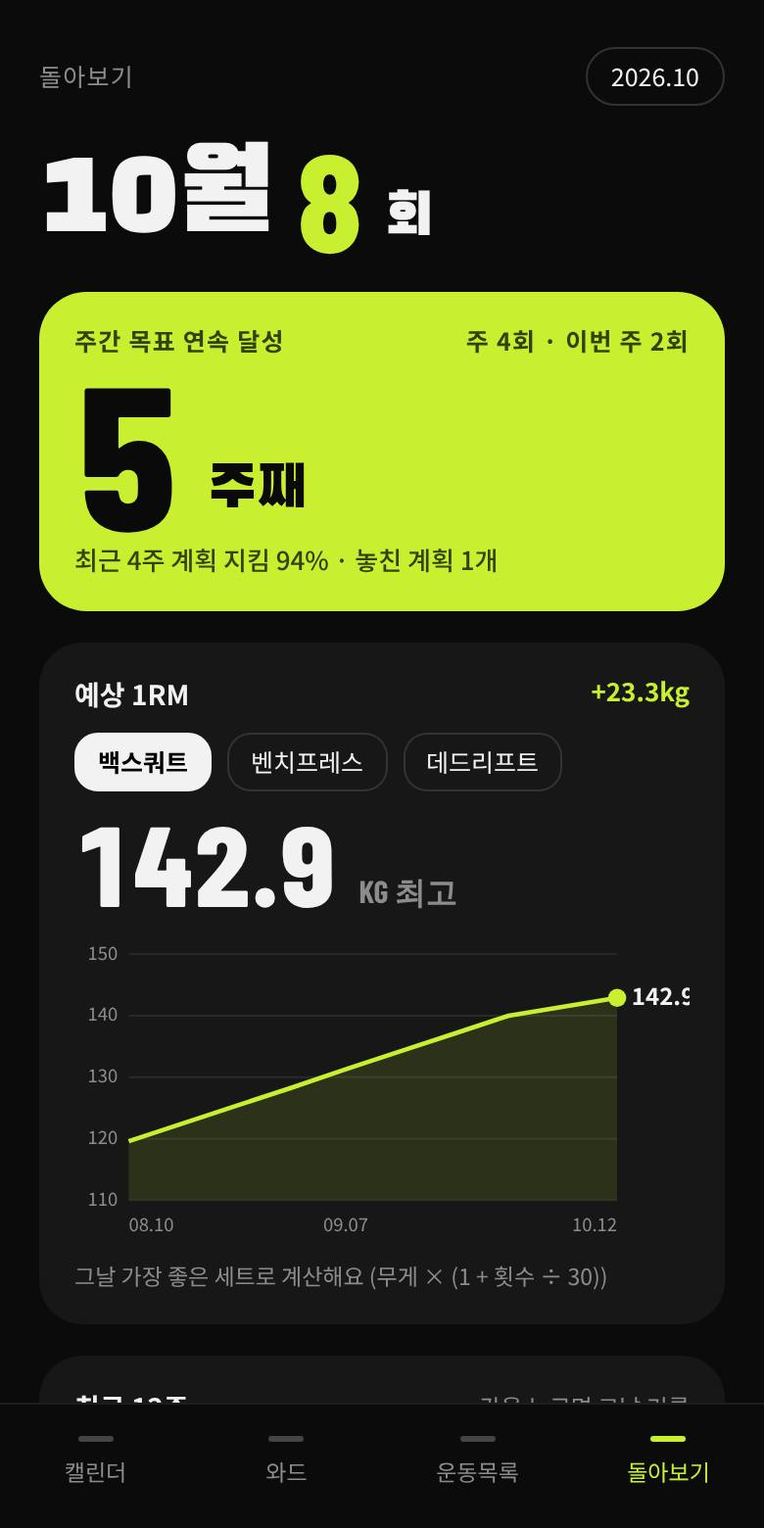
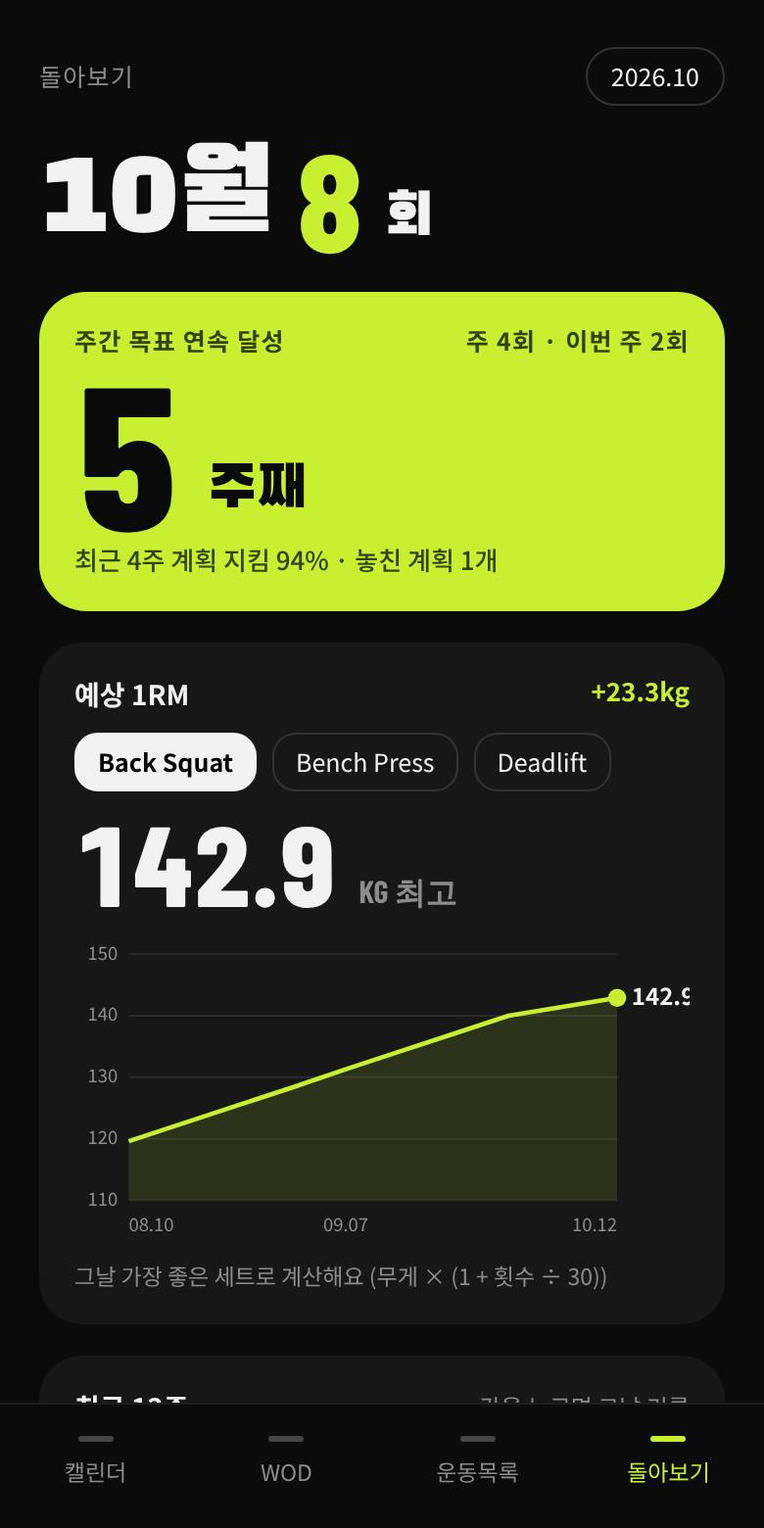
Write WOD and Daily WOD in English, English exercise names with Korean search, editable built-in named WODs, my WODs first, list every counted exercise
Claude-Session: https://claude.ai/code/session_019eoxjeUYsC1xCLQy9vy9QX

Changed region(s): [[0.1231, 0.4615, 0.7692, 0.5231], [0.3385, 0.9538, 0.4, 0.9846]]

diff --git a/index.html b/index.html
@@ -227,7 +227,7 @@ textarea.inp{resize:vertical;min-height:70px;line-height:1.6}
   <main class="screen" id="screen"></main>
   <nav class="tabs" id="tabs" aria-label="메뉴">
     <button class="tab" data-tab="cal"><i></i>캘린더</button>
-    <button class="tab" data-tab="wod"><i></i>와드</button>
+    <button class="tab" data-tab="wod"><i></i>WOD</button>
     <button class="tab" data-tab="lib"><i></i>운동목록</button>
     <button class="tab" data-tab="stats"><i></i>돌아보기</button>
   </nav>
@@ -270,7 +270,7 @@ const DEF_CATS = [
   {k:'body', label:'맨몸·홈트', color:'#FFD84D'},
   {k:'cardio', label:'유산소', color:'#7CC4FF'},
   {k:'swim', label:'수영', color:'#F2F2F2'},
-  {k:'wod', label:'와드', color:'#FF9F43'},
+  {k:'wod', label:'WOD', color:'#FF9F43'},
   {k:'etc', label:'기타', color:'#777777'}
 ];
 const CAT_COLORS = ['#C8F031','#FFD84D','#7CC4FF','#F2F2F2','#FF9F43','#FF6B6B','#B794F6','#5EEAD4','#F472B6','#777777'];
@@ -320,6 +320,11 @@ const qTxt = q => /^\d+$/.test(String(q || '')) ? `${q}회` : String(q || '');
 
 const OLD_RES = {fortime:'time', amrap:'rr', emom:'done', deathby:'rr', igyg:'time', tabata:'reps', custom:'text'};
 const resFromOld = (r = {}) => ({v:String(r.time || (r.rounds ? `${r.rounds}${r.reps ? '+' + r.reps : ''}` : r.reps || r.text || '')), status:r.status || '', short:r.short || ''});
+/* built-in exercises are named in English; the Korean name is kept (ko) so Korean typing still finds them */
+const EX_EN = {"백스쿼트": "Back Squat", "벤치프레스": "Bench Press", "데드리프트": "Deadlift", "오버헤드프레스": "Overhead Press", "바벨로우": "Barbell Row", "스러스터": "Thruster", "클린앤저크": "Clean & Jerk", "스내치": "Snatch", "파워클린": "Power Clean", "행 파워클린": "Hang Power Clean", "푸시저크": "Push Jerk", "클린": "Clean", "파워스내치": "Power Snatch", "스쿼트 스내치": "Squat Snatch", "오버헤드 스쿼트": "Overhead Squat", "케틀벨 스윙": "Kettlebell Swing", "풀업": "Pull-up", "푸시업": "Push-up", "에어스쿼트": "Air Squat", "싯업": "Sit-up", "버피": "Burpee", "더블언더": "Double Under", "핸드스탠드 푸시업": "Handstand Push-up", "토투바": "Toes-to-Bar", "머슬업": "Muscle-up", "박스점프": "Box Jump", "월볼": "Wall Ball", "플랭크": "Plank", "링 딥스": "Ring Dip", "피스톨 스쿼트": "Pistol Squat", "백 익스텐션": "Back Extension", "러닝": "Run", "로잉머신": "Row", "사이클": "Bike", "스키에르그": "SkiErg", "자유형": "Freestyle", "평영": "Breaststroke"};
+const enName = n => { n = String(n || ''); for (const k of Object.keys(EX_EN).sort((a, b) => b.length - a.length)) if (n === k || n.startsWith(k + ' ')) return EX_EN[k] + n.slice(k.length); return n; };
+const exMatch = (e, q) => norm(e.name).includes(q) || (e.ko && norm(e.ko).includes(q));
+const exIs = (e, n) => norm(e.name) === norm(n) || (e.ko && norm(e.ko) === norm(n));
 /* ---------- seed data (examples) ---------- */
 function seedExercises() {
   const W = ['w','r'], B = ['r'], C = ['d','t'];
@@ -329,7 +334,7 @@ function seedExercises() {
     ['pu','풀업','body',B],['push','푸시업','body',B],['air','에어스쿼트','body',B],['situp','싯업','body',B],['burpee','버피','body',B],['du','더블언더','body',B],['hspu','핸드스탠드 푸시업','body',B],['t2b','토투바','body',B],['mu','머슬업','body',B],['box','박스점프','body',B],['wb','월볼','weight',W],['plank','플랭크','body',['t']],['dip','링 딥스','body',B],['pistol','피스톨 스쿼트','body',B],['backext','백 익스텐션','body',B],
     ['run','러닝','cardio',C,'km'],['rowerg','로잉머신','cardio',C,'m'],['bike','사이클','cardio',C,'km'],['ski','스키에르그','cardio',C,'m'],
     ['free','자유형','swim',C,'m'],['breast','평영','swim',C,'m']
-  ].map(([id,name,cat,fields,unit]) => ({id, name, cat, fields:[...fields], unit:unit || 'km'}));
+  ].map(([id,name,cat,fields,unit]) => ({id, name:EX_EN[name] || name, ko:name, cat, fields:[...fields], unit:unit || 'km'}));
 }
 const NAMED_OLD = [
   {id:'fran', name:'Fran', format:'fortime', scheme:'21-15-9', moves:[['21-15-9','스러스터 43/29kg'],['21-15-9','풀업']]},
@@ -357,13 +362,15 @@ const NAMED_OLD = [
   {id:'michael', name:'Michael', format:'fortime', rounds:3, moves:[['800m','러닝'],['50회','백 익스텐션'],['50회','싯업']]},
   {id:'randy', name:'Randy', format:'fortime', moves:[['75회','파워스내치 34/25kg']]},
   {id:'nate', name:'Nate', format:'amrap', cap:20, moves:[['2회','머슬업'],['4회','핸드스탠드 푸시업'],['8회','케틀벨 스윙 32/24kg']]}
-].map(w => ({...w, named:true, moves:w.moves.map(([a,n]) => ({a, n}))}));
+].map(w => ({...w, named:true, moves:w.moves.map(([a,n]) => ({a, n:enName(n)}))}));
 const NAMED = NAMED_OLD.map(w => tplFromOld(w));
 /* built-in named WODs plus the ones the user adds (state.named, editable) */
-const allNamed = () => [...NAMED, ...state.named];
+const ownNamed = () => state.named.filter(x => !NAMED.some(w => w.id === x.id));
+/* an edited built-in is kept in state.named under the same id and replaces the original */
+const allNamed = () => [...NAMED.map(w => state.named.find(x => x.id === w.id) || w), ...ownNamed()];
 const seedMine = () => [
-  {id:'m1', name:'월요일 파트너 와드', format:'igyg', cap:24, rounds:10, moves:[{a:'10회',n:'버피'},{a:'15cal',n:'로잉머신'}], note:'박스 수업에서 받은 와드'},
-  {id:'m2', name:'버피 Death By', format:'deathby', moves:[{a:'매 분 +1',n:'버피'}]}
+  {id:'m1', name:'월요일 파트너 WOD', format:'igyg', cap:24, rounds:10, moves:[{a:'10회',n:'Burpee'},{a:'15cal',n:'Row'}], note:'박스 수업에서 받은 WOD'},
+  {id:'m2', name:'Burpee Death By', format:'deathby', moves:[{a:'매 분 +1',n:'Burpee'}]}
 ];
 function seedSessions() {
   const out = [], today = new Date(); today.setHours(0,0,0,0);
@@ -380,7 +387,7 @@ function seedSessions() {
       s = {title:'등 + 후면', duration:60, items:[ex('dl', [{w:dl,r:5},{w:dl,r:5},{w:dl,r:3}], ['w','r']), ex('pu', [12,11,10,9].map(r => ({r:r + Math.round(2*p) - 2})), ['r'])], planId:'p3'}; }
     else if (wd === 6) { const w = NAMED_OLD[[0,2,4][turn++ % 3]];
       const res = w.id === 'fran' ? {time:secToMs(460 - 108*p)} : w.id === 'cindy' ? {rounds:String(15 + Math.round(4*p)), reps:String(Math.round(8*p))} : {time:secToMs(790 - 70*p)};
-      s = {title:`와드 · ${w.name}`, duration:40, items:[{type:'wod', id:uid(), wodId:w.id, name:w.name, format:w.format, scheme:w.scheme || '', moves:w.moves.map(m => ({...m})), scale:'Rx', res}], planId:'p4'}; }
+      s = {title:`WOD · ${w.name}`, duration:40, items:[{type:'wod', id:uid(), wodId:w.id, name:w.name, format:w.format, scheme:w.scheme || '', moves:w.moves.map(m => ({...m})), scale:'Rx', res}], planId:'p4'}; }
     else if (wd === 0 && back % 14 < 7) s = {title:'수영', duration:45, items:[ex('free', [{d:1500, t:secToMs(2050 - 120*p)}], ['d','t'])]};
     if (s) out.push({id:uid(), date:ymd(d), mood:['💪','🙂','🙂','😐','💪','🥵'][out.length % 6], memo:'', place:'', ...s});
   }
@@ -395,7 +402,7 @@ function seedPlans() {
     {id:'p1', title:'하체 + 가슴', cat:'weight', repeat:'weekly', days:[1], start, end:'', exIds:['sq','bp'], wodId:'', notify:true, skip:[]},
     {id:'p2', title:'5km 러닝', cat:'cardio', repeat:'weekly', days:[2], start, end:'', exIds:['run'], wodId:'', notify:false, skip:[]},
     {id:'p3', title:'등 + 후면', cat:'weight', repeat:'weekly', days:[5], start, end:'', exIds:['dl','pu'], wodId:'', notify:true, skip:[]},
-    {id:'p4', title:'토요일 와드', cat:'wod', repeat:'weekly', days:[6], start, end:'', exIds:[], wodId:'', notify:false, skip:[]},
+    {id:'p4', title:'토요일 WOD', cat:'wod', repeat:'weekly', days:[6], start, end:'', exIds:[], wodId:'', notify:false, skip:[]},
     {id:'p5', title:'Murph 도전', cat:'wod', repeat:'none', days:[], start:sat, end:'', exIds:[], wodId:'murph', notify:true, skip:[], note:'조끼 없이 Scaled로 먼저'}
   ].map(p => ({...p, created:t}));
 }
@@ -417,7 +424,7 @@ function partFromOld(o) {
     return {n, exId:m.exId || null, q:schemeOf(pat) && a === pat.v ? '' : a.replace(/회$/, ''), w}; })};
 }
 function tplFromOld(w) { return {id:w.id, name:w.name, note:w.note || '', named:!!w.named, parts:[partFromOld(w)]}; }
-function wodFromOld(it) { return {type:'wod', id:it.id || uid(), wodId:it.savedId || it.wodId || null, name:it.name || '오늘의 와드', parts:[partFromOld(it)], scale:it.scale || 'Rx', res:resFromOld(it.res), partner:it.res?.partner || ''}; }
+function wodFromOld(it) { return {type:'wod', id:it.id || uid(), wodId:it.savedId || it.wodId || null, name:it.name || 'Daily WOD', parts:[partFromOld(it)], scale:it.scale || 'Rx', res:resFromOld(it.res), partner:it.res?.partner || ''}; }
 function migrate(st) {
   st.cats ||= DEF_CATS.map(c => ({...c}));
   st.formats ||= DEF_FORMATS.map(f => ({...f}));
@@ -427,9 +434,19 @@ function migrate(st) {
   [...(st.mine || []), ...(st.named || [])].forEach(w => w.parts?.forEach(toPats));
   st.mine = (st.mine || []).map(w => w.parts ? w : tplFromOld(w));
   st.named ||= [];
+  /* an exercise whose category is gone (or WOD) would be counted but never listed; file it under 기타 */
+  st.exercises.forEach(e => { if (e.cat === 'wod' || !st.cats.some(c => c.k === e.cat)) e.cat = 'etc'; });
+  /* 2026-10-16: "와드" is written WOD, "오늘의 와드" is Daily WOD */
+  st.cats.forEach(c => { if (c.k === 'wod' && c.label === '와드') c.label = 'WOD'; });
+  for (const s of st.sessions) { if (s.title) s.title = s.title.replace(/^와드 · /, 'WOD · '); for (const it of s.items) if (it.type === 'wod' && (it.name === '오늘의 와드' || it.name === 'Workout of the Day')) it.name = 'Daily WOD'; }
   for (const s of st.sessions) s.items = s.items.map(it => it.type === 'wod' && !it.parts ? wodFromOld(it) : it);
-  for (const e of seedExercises()) if (['pc','hpc','pj','clean','psn','sqsn','ohs','dip','pistol','backext'].includes(e.id) && !st.exercises.some(x => x.id === e.id || x.name === e.name)) st.exercises.push(e);
-  const byName = n => st.exercises.find(e => norm(e.name) === norm(n));
+  for (const e of seedExercises()) if (['pc','hpc','pj','clean','psn','sqsn','ohs','dip','pistol','backext'].includes(e.id) && !st.exercises.some(x => x.id === e.id || x.name === e.name || x.name === e.ko)) st.exercises.push(e);
+  const seeds = seedExercises();
+  st.exercises.forEach(e => { const s0 = seeds.find(x => x.id === e.id); if (s0 && (e.name === s0.ko || e.name === s0.name)) { e.name = s0.name; e.ko = s0.ko; } });
+  const toEn = m => { m.n = enName(m.n); };
+  for (const s of st.sessions) for (const it of s.items) if (it.type === 'wod') it.parts.forEach(p => p.moves.forEach(toEn));
+  [...st.mine, ...st.named].forEach(w => w.parts.forEach(p => p.moves.forEach(toEn)));
+  const byName = n => st.exercises.find(e => exIs(e, n));
   const link = m => { if (!m.exId || !st.exercises.some(e => e.id === m.exId)) m.exId = byName(m.n)?.id || null; };
   for (const s of st.sessions) for (const it of s.items) if (it.type === 'wod') it.parts.forEach(p => p.moves.forEach(link));
   [...st.mine, ...st.named].forEach(w => w.parts.forEach(p => p.moves.forEach(link)));
@@ -437,7 +454,7 @@ function migrate(st) {
 }
 load();
 
-const ui = {tab:'cal', page:null, sel:TODAY(), month:TODAY().slice(0, 7), view:'month', hidden:[], wodTab:'named', libCat:'all', libQ:'', pickQ:'', pickCat:'all', statEx:'sq', confirm:null, draft:null, pdraft:null, exd:null, tdraft:null, dayDate:null, frEdit:false, grouping:false, groupSel:[], fe:null, ce:null};
+const ui = {tab:'cal', page:null, sel:TODAY(), month:TODAY().slice(0, 7), view:'month', hidden:[], wodTab:'mine', libCat:'all', libQ:'', pickQ:'', pickCat:'all', statEx:'sq', confirm:null, draft:null, pdraft:null, exd:null, tdraft:null, dayDate:null, frEdit:false, grouping:false, groupSel:[], fe:null, ce:null};
 
 const exById = id => state.exercises.find(e => e.id === id);
 const wodById = id => allNamed().find(w => w.id === id) || state.mine.find(w => w.id === id);
@@ -547,8 +564,8 @@ const GUIDE_KEY = 'setlog-guide-seen';
 const GUIDE = [
   ['캘린더', '날짜를 누르면 그날 기록이 보여요. 칸 아래 색 막대는 기록, 테두리만 있는 건 계획이에요.'],
   ['기록하기', '운동이 끝나고 세트마다 무게와 횟수를 적어요. 반복 계획이면 지난 무게가 미리 채워져요.'],
-  ['와드 기록', '구성(For Time, AMRAP…)을 고르고 운동을 적어요. 운동 사이에서 구간을 나누면 A, B로 따로 기록돼요.'],
-  ['와드 모음', '네임드 와드와 내가 만든 와드를 저장해 두고 바로 불러와요. 네임드 와드도 직접 추가할 수 있어요.'],
+  ['WOD 기록', '구성(For Time, AMRAP…)을 고르고 운동을 적어요. 운동 사이에서 구간을 나누면 A, B로 따로 기록돼요.'],
+  ['WOD 모음', '네임드 WOD와 내가 만든 WOD를 저장해 두고 바로 불러와요. 네임드 WOD도 직접 추가할 수 있어요.'],
   ['돌아보기', '주간 목표 연속 기록과 운동별 성장 그래프를 봐요.']
 ];
 function showGuide() {
@@ -665,9 +682,9 @@ function pageEdit() {
   <datalist id="exNames">${state.exercises.map(e => `<option value="${esc(e.name)}">`).join('')}</datalist>
   <input class="inp big" id="dTitle" data-d="title" value="${esc(d.title)}" placeholder="오늘 운동 제목 (예: 하체 데이)" aria-label="운동 제목">
   <div><div class="eb" style="margin-bottom:8px">오늘 컨디션</div><div class="chips">${MOODS.map(([e, l]) => `<button class="chip" aria-pressed="${d.mood === e}" data-action="mood" data-v="${e}">${e} ${l}</button>`).join('')}</div></div>
-  ${d.items.map((it, i) => it.type === 'wod' ? wodCard(it, i) : exEditCard(it, i)).join('') || '<div class="card empty">아래에서 운동이나 와드를 추가해 주세요.</div>'}
-  ${ui.grouping ? `<div class="groupbar"><span class="sub" style="color:var(--ink)">${ui.groupSel.length}개 선택</span><span class="grow"></span><button class="pill" data-action="group-cancel">취소</button><button class="btn lime small" style="width:auto;padding:10px 18px" data-action="group-do">와드로 묶기</button></div>`
-    : `<div class="row" style="gap:8px"><button class="btn out small" data-action="pick-ex">+ 운동 · 와드 추가</button>${d.items.filter(it => it.type === 'ex').length >= 2 ? '<button class="btn out small" style="width:auto;padding-inline:16px;white-space:nowrap" data-action="group-start">와드로 묶기</button>' : ''}</div>`}
+  ${d.items.map((it, i) => it.type === 'wod' ? wodCard(it, i) : exEditCard(it, i)).join('') || '<div class="card empty">아래에서 운동이나 WOD를 추가해 주세요.</div>'}
+  ${ui.grouping ? `<div class="groupbar"><span class="sub" style="color:var(--ink)">${ui.groupSel.length}개 선택</span><span class="grow"></span><button class="pill" data-action="group-cancel">취소</button><button class="btn lime small" style="width:auto;padding:10px 18px" data-action="group-do">WOD로 묶기</button></div>`
+    : `<div class="row" style="gap:8px"><button class="btn out small" data-action="pick-ex">+ 운동 · WOD 추가</button>${d.items.filter(it => it.type === 'ex').length >= 2 ? '<button class="btn out small" style="width:auto;padding-inline:16px;white-space:nowrap" data-action="group-start">WOD로 묶기</button>' : ''}</div>`}
   <div class="field"><span class="eb">메모</span><textarea class="inp" id="dMemo" data-d="memo" placeholder="오늘 느낀 점, 다음에 신경 쓸 것">${esc(d.memo)}</textarea></div>
   <input class="inp" id="dPlace" data-d="place" value="${esc(d.place)}" placeholder="장소 (선택)" aria-label="장소">`;
 }
@@ -684,7 +701,7 @@ function exEditCard(it, i) {
     <div class="row" style="gap:8px"><button class="add" data-action="add-set" data-i="${i}">+ 세트 추가</button>${it.sets.length > 1 ? `<button class="add" style="width:auto;padding:9px 14px" data-action="del-set" data-i="${i}">− 마지막 세트</button>` : ''}</div>
   </div>`;
 }
-const findEx = name => state.exercises.find(e => norm(e.name) === norm(name));
+const findEx = name => state.exercises.find(e => exIs(e, name));
 /* WOD card: each part is a frame (format + pattern) followed by its exercises; a frame can be inserted between exercises */
 function usage() { const c = {}; for (const s of state.sessions) for (const it of s.items) { if (it.type === 'ex') c[it.exId] = (c[it.exId] || 0) + 1; else wodMoves(it).forEach(m => { if (m.exId) c[m.exId] = (c[m.exId] || 0) + 1; }); } return c; }
 function fmtChips(i, pi, p) {
@@ -743,7 +760,7 @@ function wodResultBox(it, i) {
       ${st === 'DNF' ? `<div class="res"><label>못 채운 렙 (−)<input data-i="${i}" data-res="short" inputmode="numeric" value="${esc(String(it.res?.short ?? '').replace(/^-/, ''))}" placeholder="6"></label></div>` : ''}
       ${type === 'done' && !st ? '<div class="sub" style="font-weight:500">다 했으면 DONE, 못 채웠으면 DNF를 눌러요</div>' : `<div class="res"><label>${st === 'DNF' ? '적고 싶을 때만' : RES_TYPES[type].label}${resInput(`data-i="${i}" data-res="v" class="${type === 'text' ? 'txt' : ''}"`, it.res?.v, type)}</label></div>`}
       <div class="sub" style="font-weight:500">결과: <b data-respv="${i}">${esc(wodResult(it) || '-')}</b></div>
-      ${it.wodId ? b ? `<div class="sub" style="font-weight:500">내 최고 ${esc(b.txt)} (${md(b.date)})</div>` : '<div class="sub">이 와드의 첫 기록이에요</div>' : ''}
+      ${it.wodId ? b ? `<div class="sub" style="font-weight:500">내 최고 ${esc(b.txt)} (${md(b.date)})</div>` : '<div class="sub">이 WOD의 첫 기록이에요</div>' : ''}
     </div>`;
 }
 function wodCard(it, i) {
@@ -751,18 +768,18 @@ function wodCard(it, i) {
   const freq = state.exercises.filter(e => u[e.id]).sort((a, b) => u[b.id] - u[a.id]).slice(0, 8);
   const mine = it.wodId && state.mine.some(w => w.id === it.wodId);
   return `<div class="card wc">
-    <div class="row between" style="gap:8px"><input class="inp big" data-wn="${i}" value="${esc(it.name)}" placeholder="${tpl ? '와드 제목' : '오늘의 와드'}" aria-label="와드 제목" style="font-family:var(--num);font-weight:800;font-size:28px;padding:6px 10px">
-      ${it.wodId && !tpl ? '<span class="pill lime">불러옴</span>' : ''}${tpl ? '' : `<button class="icon" data-action="remove-item" data-i="${i}" aria-label="와드 빼기">✕</button>`}</div>
+    <div class="row between" style="gap:8px"><input class="inp big" data-wn="${i}" value="${esc(it.name)}" placeholder="${tpl ? 'WOD 제목' : 'Daily WOD'}" aria-label="WOD 제목" style="font-family:var(--num);font-weight:800;font-size:28px;padding:6px 10px">
+      ${it.wodId && !tpl ? '<span class="pill lime">불러옴</span>' : ''}${tpl ? '' : `<button class="icon" data-action="remove-item" data-i="${i}" aria-label="WOD 빼기">✕</button>`}</div>
     ${it.parts.map((p, pi) => partHtml(it, i, p, pi)).join('')}
     ${freq.length ? `<div class="lbl">자주 한 운동</div><div class="chips2">${freq.map(e => `<button class="c2" data-action="mv-quick" data-i="${i}" data-id="${e.id}">${esc(e.name)}</button>`).join('')}</div>` : ''}
     ${tpl ? '' : wodResultBox(it, i)}
-    ${tpl ? '' : mine ? '<div class="sub" style="text-align:center">내 와드에 저장된 와드예요</div>' : `<button class="add" data-action="dw-save" data-i="${i}">☆ ${it.wodId ? '내 와드로 복사해서 저장' : '이 와드를 내 와드로 저장'} (선택)</button>`}
+    ${tpl ? '' : mine ? '<div class="sub" style="text-align:center">내 WOD에 저장된 WOD예요</div>' : `<button class="add" data-action="dw-save" data-i="${i}">☆ ${it.wodId ? '내 WOD로 복사해서 저장' : '이 WOD를 내 WOD로 저장'} (선택)</button>`}
   </div>`;
 }
 /* saved WOD editor: the same card, without a result */
 function pageTpl() {
   const d = ui.tdraft;
-  return `<div class="row between"><button class="pill" data-action="tpl-cancel">취소</button><span class="eb">${d.kind === 'named' ? (d.id ? '네임드 와드 수정' : '네임드 와드 추가') : d.id ? '내 와드 수정' : '내 와드 만들기'}</span><button class="pill solid" data-action="tpl-save">저장</button></div>
+  return `<div class="row between"><button class="pill" data-action="tpl-cancel">취소</button><span class="eb">${d.kind === 'named' ? (d.id ? '네임드 WOD 수정' : '네임드 WOD 추가') : d.id ? '내 WOD 수정' : '내 WOD 만들기'}</span><button class="pill solid" data-action="tpl-save">저장</button></div>
   ${wodCard(d.items[0], 0)}
   <input class="inp" id="tNote" data-tn="note" value="${esc(d.note || '')}" placeholder="메모 (무게, 스케일 방법)" aria-label="메모">`;
 }
@@ -784,7 +801,7 @@ function pagePlan() {
     <div><div class="eb" style="margin-bottom:8px">반복</div><div class="chips">${[['none','안 함'],['daily','매일'],['weekly','매주'],['monthly','매월']].map(([k, l]) => `<button class="chip" aria-pressed="${d.repeat === k}" data-action="p-repeat" data-v="${k}">${l}</button>`).join('')}</div></div>
     ${d.repeat === 'weekly' ? `<div class="row between">${WD.map((w, i) => `<button class="circle" aria-pressed="${d.days.includes(i)}" data-action="p-day" data-v="${i}" style="${i === 0 && !d.days.includes(0) ? 'color:var(--red)' : ''}">${w}</button>`).join('')}</div>` : ''}
     <div class="row" style="gap:10px"><label class="field grow"><span class="eb">${d.repeat === 'none' ? '날짜' : '시작'}</span><input class="inp" type="date" id="pStart" data-p="start" value="${d.start}" style="color-scheme:dark"></label>${d.repeat === 'none' ? '' : `<label class="field grow"><span class="eb">종료 (선택)</span><input class="inp" type="date" id="pEnd" data-p="end" value="${d.end}" style="color-scheme:dark"></label>`}</div>
-    ${d.cat === 'wod' ? `<label class="field"><span class="eb">와드</span><select class="inp" id="pWod" data-p="wodId"><option value="">당일에 고르기</option>${[...state.mine, ...allNamed()].map(w => `<option value="${w.id}" ${d.wodId === w.id ? 'selected' : ''}>${esc(w.name)} (${esc(w.parts[0]?.fmt.label || '')})</option>`).join('')}</select></label>`
+    ${d.cat === 'wod' ? `<label class="field"><span class="eb">WOD</span><select class="inp" id="pWod" data-p="wodId"><option value="">당일에 고르기</option>${[...state.mine, ...allNamed()].map(w => `<option value="${w.id}" ${d.wodId === w.id ? 'selected' : ''}>${esc(w.name)} (${esc(w.parts[0]?.fmt.label || '')})</option>`).join('')}</select></label>`
       : `<div><div class="eb" style="margin-bottom:8px">할 운동</div><div class="chips">${exs.map(e => `<button class="chip sm" aria-pressed="${d.exIds.includes(e.id)}" data-action="p-ex" data-v="${e.id}">${esc(e.name)}</button>`).join('')}</div></div>`}
   </div>
   <div class="card row between" style="padding:14px 18px"><span>전날 밤 알림</span><button class="toggle" aria-pressed="${!!d.notify}" data-action="p-notify" aria-label="전날 밤 알림"></button></div>
@@ -805,16 +822,16 @@ function viewWod() {
   const t = ui.wodTab;
   let body = '';
   if (t === 'formats') body = framesHtml();
-  else { const list = t === 'named' ? [...state.named, ...NAMED] : state.mine;
-    body = (t === 'mine' ? '<button class="btn out small" data-action="new-wod">+ 내 와드 만들기</button>' : '<button class="btn out small" data-action="new-wod" data-kind="named">+ 네임드 와드 추가</button>') + (list.map(w => { const b = bestWod(w.id);
+  else { const list = t === 'named' ? [...ownNamed(), ...allNamed().filter(w => !w.own)] : state.mine;
+    body = (t === 'mine' ? '<button class="btn out small" data-action="new-wod">+ 내 WOD 만들기</button>' : '<button class="btn out small" data-action="new-wod" data-kind="named">+ 네임드 WOD 추가</button>') + (list.map(w => { const b = bestWod(w.id);
       return `<button class="card" data-action="wod-detail" data-id="${w.id}" style="border:0;text-align:left;color:var(--ink);display:flex;flex-direction:column;gap:6px;width:100%">
-        <div class="row between"><span class="n" style="font-size:38px;text-transform:uppercase">${esc(w.name)}</span><span class="row" style="gap:6px">${w.own ? '<span class="pill">직접 추가</span>' : ''}<span class="pill lime">${esc(w.parts[0]?.fmt.label.toUpperCase() || '')}</span></span></div>
+        <div class="row between"><span class="n" style="font-size:38px;text-transform:uppercase">${esc(w.name)}</span><span class="row" style="gap:6px">${w.own ? '<span class="pill">직접 추가</span>' : w.edited ? '<span class="pill">수정함</span>' : ''}<span class="pill lime">${esc(w.parts[0]?.fmt.label.toUpperCase() || '')}</span></span></div>
         <div class="sub">${esc(tplSummary(w))}</div>
-        ${b ? `<div class="row" style="gap:8px"><span class="eb">내 최고</span><span class="n" style="font-size:24px;color:var(--lime)">${esc(b.txt)}</span></div>` : ''}</button>`; }).join('') || '<div class="empty">저장한 와드가 없어요.</div>'); }
-  return `<div class="row between"><span class="eb">와드</span><span class="pill">${allNamed().length + state.mine.length}개</span></div>
-  <h1 class="disp" style="font-size:64px">와드</h1>
-  <button class="hero" data-action="record-daily" style="border:0;text-align:left;width:100%"><span class="disp" style="font-size:26px;display:block">오늘의 와드 바로 기록</span><span class="sub" style="display:block;margin-top:4px">구성 고르고, 운동 고르고, 결과만 적어요</span></button>
-  <div class="row" style="gap:6px">${[['named','네임드'],['mine','내 와드'],['formats','구성']].map(([k, l]) => `<button class="pill" aria-pressed="${t === k}" data-action="wod-tab" data-v="${k}">${l}</button>`).join('')}</div>
+        ${b ? `<div class="row" style="gap:8px"><span class="eb">내 최고</span><span class="n" style="font-size:24px;color:var(--lime)">${esc(b.txt)}</span></div>` : ''}</button>`; }).join('') || '<div class="empty">저장한 WOD가 없어요.</div>'); }
+  return `<div class="row between"><span class="eb">WOD</span><span class="pill">${allNamed().length + state.mine.length}개</span></div>
+  <h1 class="disp" style="font-size:64px">WOD</h1>
+  <button class="hero" data-action="record-daily" style="border:0;text-align:left;width:100%"><span class="disp" style="font-size:26px;display:block">Daily WOD 바로 기록</span><span class="sub" style="display:block;margin-top:4px">구성 고르고, 운동 고르고, 결과만 적어요</span></button>
+  <div class="row" style="gap:6px">${[['mine','내 WOD'],['named','네임드'],['formats','구성']].map(([k, l]) => `<button class="pill" aria-pressed="${t === k}" data-action="wod-tab" data-v="${k}">${l}</button>`).join('')}</div>
   ${body}`;
 }
 
@@ -823,8 +840,8 @@ function hits(id, name) {
   const out = [], q = norm(name);
   for (const s of [...state.sessions].sort((a, b) => b.date.localeCompare(a.date))) for (const it of s.items) {
     if (it.type === 'ex') { const ex = exById(it.exId);
-      if ((id && it.exId === id) || (!id && q && ex && norm(ex.name).includes(q))) out.push({s, kind:'ex', head:ex?.name || '', detail:setsText(it, ex || {unit:'km'}) + (it.fields.includes('w') ? ' ' + wuOf(it) : '')}); }
-    else { const ms = it.parts.flatMap(p => p.moves.filter(m => id ? (m.exId === id || (!m.exId && q && norm(m.n).includes(q))) : (q && norm(m.n).includes(q))).map(m => ({...m, q:m.q || schemeOfP(p)})));
+      if ((id && it.exId === id) || (!id && q && ex && exMatch(ex, q))) out.push({s, kind:'ex', head:ex?.name || '', detail:setsText(it, ex || {unit:'km'}) + (it.fields.includes('w') ? ' ' + wuOf(it) : '')}); }
+    else { const ms = it.parts.flatMap(p => p.moves.filter(m => id ? (m.exId === id || (!m.exId && q && norm(m.n).includes(q))) : (q && (norm(m.n).includes(q) || (m.exId && exById(m.exId) && exMatch(exById(m.exId), q))))).map(m => ({...m, q:m.q || schemeOfP(p)})));
       if (ms.length) out.push({s, kind:'wod', head:`${it.name}${wodResult(it) ? ' · ' + wodResult(it) : ''}`, detail:ms.map(m => [qTxt(m.q), m.n, m.w].filter(Boolean).join(' ')).join(', ')}); }
   }
   return out;
@@ -841,7 +858,7 @@ function sheetExHistory(id) {
 
 /* library */
 function libList() {
-  const q = ui.libQ.trim(), list = state.exercises.filter(e => (ui.libCat === 'all' || e.cat === ui.libCat) && (!q || e.name.includes(q)));
+  const q = ui.libQ.trim(), list = state.exercises.filter(e => (ui.libCat === 'all' || e.cat === ui.libCat) && (!q || exMatch(e, norm(q))));
   return exCats().map(c => ({c, items:list.filter(e => e.cat === c.k)})).filter(g => g.items.length).map(g => `<div><div class="row" style="gap:8px;margin-bottom:6px"><span class="bar" style="background:${g.c.color};height:14px"></span><span class="eb">${g.c.label} · ${g.items.length}</span></div>
     <div class="card list" style="padding:4px 16px">${g.items.map(e => `<button class="it" data-action="ex-history" data-id="${e.id}"><span class="grow"><span class="t" style="display:block">${esc(e.name)}</span><span class="meta" style="display:block">${e.fields.map(k => FIELDS[k].label + (k === 'd' ? `(${e.unit})` : '')).join(' · ')}</span></span><span class="sub">기록 ${hits(e.id, e.name).length}</span></button>`).join('')}</div></div>`).join('') + (q ? recordSearch(q) : '') || '<div class="empty">찾는 운동이 없어요.</div>';
 }
@@ -886,7 +903,7 @@ function viewStats() {
     <div class="sub" style="font-size:12px">앱을 지우거나 브라우저 데이터를 지우면 기록도 사라져요. 가끔 백업 파일을 저장해 두세요.</div>
     <div class="row" style="gap:8px"><button class="btn out small" data-action="export">백업 저장</button><label class="btn out small" style="cursor:pointer">백업 불러오기<input type="file" id="importFile" accept=".json,application/json" hidden></label></div>
     <button class="btn out small" style="border-color:#333;color:var(--mut)" data-action="reset">${ui.confirm === 'reset' ? '한 번 더 누르면 지금 기록 대신 예시 데이터가 들어가요' : '예시 데이터 넣어 보기'}</button>
-    <button class="btn danger small" data-action="wipe">${ui.confirm === 'wipe' ? '한 번 더 누르면 기록·계획·와드를 모두 지워요' : '모든 기록 지우기'}</button></div>`;
+    <button class="btn danger small" data-action="wipe">${ui.confirm === 'wipe' ? '한 번 더 누르면 기록·계획·WOD를 모두 지워요' : '모든 기록 지우기'}</button></div>`;
 }
 function chartSvg(pts) {
   const W = 340, H = 170, L = 30, R = 40, T = 12, B = 22, vs = pts.map(p => p.v);
@@ -934,17 +951,17 @@ function sheetPlanDetail(id, ds) {
 }
 function pickList() {
   const q = ui.pickQ.trim().toLowerCase(), c = ui.pickCat;
-  const exs = c === 'wod' ? [] : state.exercises.filter(e => (c === 'all' || e.cat === c) && (!q || e.name.toLowerCase().includes(q)));
-  const wods = c === 'all' || c === 'wod' ? [['내 와드', state.mine], ['네임드 와드', allNamed()]].map(([t, l]) => [t, l.filter(w => !q || w.name.toLowerCase().includes(q))]).filter(([, l]) => l.length) : [];
+  const exs = c === 'wod' ? [] : state.exercises.filter(e => (c === 'all' || e.cat === c) && (!q || exMatch(e, norm(q))));
+  const wods = c === 'all' || c === 'wod' ? [['내 WOD', state.mine], ['네임드 WOD', allNamed()]].map(([t, l]) => [t, l.filter(w => !q || w.name.toLowerCase().includes(q))]).filter(([, l]) => l.length) : [];
   const exHtml = exs.length ? `${wods.length ? '<div class="eb">운동</div>' : ''}<div class="card list" style="padding:2px 16px">${exs.map(e => `<button class="it" data-action="add-ex" data-id="${e.id}"><span class="bar" style="background:${catOf(e.cat).color};height:18px"></span><span class="grow t">${esc(e.name)}</span><span class="pill">추가</span></button>`).join('')}</div>` : '';
   const wodHtml = wods.map(([t, l]) => `<div class="eb">${t}</div><div class="card list" style="padding:2px 16px">${l.map(w => `<button class="it" data-action="add-wod" data-id="${w.id}"><span class="bar" style="background:var(--orange);height:18px"></span><span class="grow"><span class="t" style="display:block">${esc(w.name)}</span><span class="meta" style="display:block">${esc(tplSummary(w))}</span></span><span class="pill">추가</span></button>`).join('')}</div>`).join('');
   return exHtml + wodHtml || '<div class="empty">찾는 운동이 없어요. 위의 + 새 운동으로 만들 수 있어요.</div>';
 }
 function sheetPickEx() {
   ui.sheet = sheetPickEx;
-  openSheet(`<div class="row between"><h2 class="disp" style="font-size:30px">운동 · 와드 추가</h2><button class="pill lime" data-action="edit-ex" data-from="pick">+ 새 운동</button></div>
-    <button class="hero" data-action="add-daily" style="border:0;text-align:left;width:100%"><span class="disp" style="font-size:24px;display:block">오늘의 와드 바로 적기</span><span class="sub" style="display:block;margin-top:4px">저장 없이 그날 와드 내용과 결과만 적어요</span></button>
-    <input class="search" id="pickQ" type="search" placeholder="운동이나 와드 검색" value="${esc(ui.pickQ)}" aria-label="운동 검색">
+  openSheet(`<div class="row between"><h2 class="disp" style="font-size:30px">운동 · WOD 추가</h2><button class="pill lime" data-action="edit-ex" data-from="pick">+ 새 운동</button></div>
+    <button class="hero" data-action="add-daily" style="border:0;text-align:left;width:100%"><span class="disp" style="font-size:24px;display:block">Daily WOD 바로 적기</span><span class="sub" style="display:block;margin-top:4px">저장 없이 그날 WOD 내용과 결과만 적어요</span></button>
+    <input class="search" id="pickQ" type="search" placeholder="운동이나 WOD 검색" value="${esc(ui.pickQ)}" aria-label="운동 검색">
     <div class="chips">${[{k:'all', label:'전체'}, ...cats()].map(c => `<button class="chip sm" aria-pressed="${ui.pickCat === c.k}" data-action="pick-cat" data-v="${c.k}">${c.label}</button>`).join('')}</div>
     <div id="pickList" style="display:flex;flex-direction:column;gap:10px">${pickList()}</div>`);
 }
@@ -957,8 +974,8 @@ function sheetWod(id) {
     ${w.parts.map((p, pi) => `${multi || pList(p).length ? `<div class="eb" style="color:var(--lime)">${multi ? String.fromCharCode(65 + pi) + ' · ' : ''}${esc([p.fmt.label, patsLabel(p)].filter(Boolean).join(' · '))}</div>` : ''}<div class="moves">${p.moves.map(m => `<div><b>${esc(qTxt(m.q) || schemeOfP(p))}</b><span>${esc([m.n, m.w].filter(Boolean).join(' '))}</span></div>`).join('')}</div>`).join('')}
     ${w.note ? `<div class="sub">${esc(w.note)}</div>` : ''}${state.formats.find(f => f.id === w.parts[0]?.fmt.id)?.note ? `<div class="card sub" style="color:var(--ink)">${esc(state.formats.find(f => f.id === w.parts[0].fmt.id).note)}</div>` : ''}
     ${hist.length ? `<div class="card list" style="padding:2px 16px">${hist.slice(0, 5).map(({s, it}) => `<button class="it" data-action="open-day" data-date="${s.date}"><span class="n" style="font-size:26px;width:110px">${esc(wodResult(it) || '-')}</span><span class="grow sub">${s.date.replaceAll('-', '.')} · ${esc(it.scale || 'Rx')}</span></button>`).join('')}</div>` : ''}
-    <button class="btn lime" data-action="record-wod" data-id="${w.id}">이 와드로 기록하기</button>
-    ${w.named && !w.own ? `<button class="btn out small" data-action="copy-wod" data-id="${w.id}">복사해서 내 와드로 수정</button>` : `<div class="row" style="gap:8px"><button class="btn out small" data-action="new-wod" data-id="${w.id}" data-kind="${w.own ? 'named' : ''}">수정</button><button class="btn danger small" data-action="del-wod" data-id="${w.id}">${ui.confirm === 'del-wod' ? '정말 삭제' : '삭제'}</button></div>`}`);
+    <button class="btn lime" data-action="record-wod" data-id="${w.id}">이 WOD로 기록하기</button>
+    ${w.named && !w.own ? `<div class="row" style="gap:8px"><button class="btn out small" data-action="new-wod" data-id="${w.id}" data-kind="named">수정</button><button class="btn out small" data-action="copy-wod" data-id="${w.id}">내 WOD로 복사</button></div>${w.edited ? `<button class="btn out small" style="border-color:#333;color:var(--mut)" data-action="named-reset" data-id="${w.id}">${ui.confirm === 'named-reset' ? '한 번 더 누르면 처음 내용으로 돌아가요' : '처음 내용으로 되돌리기'}</button>` : ''}` : `<div class="row" style="gap:8px"><button class="btn out small" data-action="new-wod" data-id="${w.id}" data-kind="${w.own ? 'named' : ''}">수정</button><button class="btn danger small" data-action="del-wod" data-id="${w.id}">${ui.confirm === 'del-wod' ? '정말 삭제' : '삭제'}</button></div>`}`);
 }
 /* frame sheet: insert a frame between exercises, or change one part's frame */
 function sheetFrame() {
@@ -1042,16 +1059,16 @@ function openTpl(src, kind = 'mine') {
   ui.tplBack = ui.page; ui.tdraft = {id:src?.id || null, kind, note:src?.note || '', items:[it]}; ui.page = 'tpl'; ui.confirm = null; closeSheet(); render();
 }
 /* a saved WOD keeps frames and exercises, not results */
-function tplFromItem(it) { return {id:it.wodId || null, name:(it.name || '').trim() || '오늘의 와드', note:'', parts:it.parts.map(p => ({fmt:{...p.fmt}, pats:pList(p).map(x => ({...x})), moves:p.moves.filter(m => m.n.trim()).map(m => ({n:m.n.trim(), exId:m.exId || null, q:(m.q || '').trim(), w:(m.w || '').trim()}))})).filter(p => p.moves.length)}; }
+function tplFromItem(it) { return {id:it.wodId || null, name:(it.name || '').trim() || 'Daily WOD', note:'', parts:it.parts.map(p => ({fmt:{...p.fmt}, pats:pList(p).map(x => ({...x})), moves:p.moves.filter(m => m.n.trim()).map(m => ({n:m.n.trim(), exId:m.exId || null, q:(m.q || '').trim(), w:(m.w || '').trim()}))})).filter(p => p.moves.length)}; }
 /* drop empty rows; link every exercise name to the exercise list, adding new ones so they show up in search */
 const withUnit = w => { w = String(w || '').trim(); return /^[\d.]+(\/[\d.]+)?$/.test(w) ? w + U() : w; };
 function cleanWod(it, onNew) {
   const parts = it.parts.map(p => ({...p, moves:p.moves.filter(m => m.n.trim()).map(m => {
     let ex = (m.exId && exById(m.exId)?.name === m.n.trim() && exById(m.exId)) || findEx(m.n);
-    if (!ex) { ex = {id:uid(), name:m.n.trim(), cat:m.w ? 'weight' : 'body', fields:m.w ? ['w','r'] : ['r'], unit:'km'}; state.exercises.push(ex); onNew(); }
+    if (!ex) { ex = {id:uid(), name:m.n.trim(), cat:[m.w ? 'weight' : 'body', 'etc'].find(k => state.cats.some(c => c.k === k)) || state.cats[0].k, fields:m.w ? ['w','r'] : ['r'], unit:'km'}; state.exercises.push(ex); onNew(); }
     return {n:ex.name, exId:ex.id, q:(m.q || '').trim(), w:withUnit(m.w)}; })})).filter(p => p.moves.length || p.res?.v || p.res?.status);
   if (!parts.length && !wodResult(it)) return null;
-  return {...it, name:(it.name || '').trim() || '오늘의 와드', parts:parts.length ? parts : [{...it.parts[0], moves:[]}]};
+  return {...it, name:(it.name || '').trim() || 'Daily WOD', parts:parts.length ? parts : [{...it.parts[0], moves:[]}]};
 }
 function delFrame(kind, id) {
   if (kind === 'fmt') { if (state.formats.length < 2) { toast('방식은 하나 이상 있어야 해요'); return; } state.formats = state.formats.filter(f => f.id !== id); }
@@ -1133,9 +1150,9 @@ const A = {
   'part-done': el => { const p = curItems()[+el.dataset.i].parts[+el.dataset.pi]; p.res = {...p.res, status:p.res?.status === 'DONE' ? '' : 'DONE'}; render(true); },
   'res-status': el => { const it = curItems()[+el.dataset.i]; it.res = {...(it.res || {}), status:el.dataset.v}; if (!el.dataset.v) delete it.res.short; render(true); },
   'dw-save': el => { const it = ui.draft.items[+el.dataset.i], t = tplFromItem(it);
-    if (!wodMoves(t).length) { toast('와드에 운동을 먼저 적어 주세요'); return; }
-    t.id = uid(); if (!it.name.trim() || it.name.trim() === '오늘의 와드' || it.wodId) t.name = it.wodId ? `${t.name} (내 버전)` : `${md(ui.draft.date)} 와드`;
-    state.mine.unshift(t); save(); it.wodId = t.id; it.name = t.name; render(true); toast('내 와드에 저장했어요'); },
+    if (!wodMoves(t).length) { toast('WOD에 운동을 먼저 적어 주세요'); return; }
+    t.id = uid(); if (!it.name.trim() || it.name.trim() === 'Daily WOD' || it.wodId) t.name = it.wodId ? `${t.name} (내 버전)` : `${md(ui.draft.date)} WOD`;
+    state.mine.unshift(t); save(); it.wodId = t.id; it.name = t.name; render(true); toast('내 WOD에 저장했어요'); },
   // group exercises into a WOD
   'group-start': () => { ui.grouping = true; ui.groupSel = []; render(true); },
   'group-cancel': () => { ui.grouping = false; ui.groupSel = []; render(true); },
@@ -1146,9 +1163,9 @@ const A = {
       return {n:ex.name, exId:it.exId, q:s0.r ? String(s0.r) : s0.d ? `${s0.d}${ex.unit}` : s0.t || '', w:s0.w ? `${s0.w}${wuOf(it)}` : ''}; });
     const w = {...dailyItem(), parts:[{fmt:fmtCopy(state.formats[0] || DEF_FORMATS[0]), pats:[], res:{}, moves}]};
     items.splice(sel[0], 1, w); for (const i of sel.slice(1).reverse()) items.splice(i, 1);
-    ui.grouping = false; ui.groupSel = []; render(true); toast('와드로 묶었어요. 구성과 결과를 적어 주세요'); },
-  'add-wod': el => { ui.draft.items.push(wodItem(wodById(el.dataset.id))); if (!ui.draft.title) ui.draft.title = `와드 · ${wodById(el.dataset.id).name}`; closeSheet(); render(true); },
-  'record-wod': el => { const w = wodById(el.dataset.id); if (ui.page === 'edit') { ui.draft.items.push(wodItem(w)); closeSheet(); return render(true); } const d = newDraft(recordDate()); d.items.push(wodItem(w)); d.title = `와드 · ${w.name}`; openEditor(d); },
+    ui.grouping = false; ui.groupSel = []; render(true); toast('WOD로 묶었어요. 구성과 결과를 적어 주세요'); },
+  'add-wod': el => { ui.draft.items.push(wodItem(wodById(el.dataset.id))); if (!ui.draft.title) ui.draft.title = `WOD · ${wodById(el.dataset.id).name}`; closeSheet(); render(true); },
+  'record-wod': el => { const w = wodById(el.dataset.id); if (ui.page === 'edit') { ui.draft.items.push(wodItem(w)); closeSheet(); return render(true); } const d = newDraft(recordDate()); d.items.push(wodItem(w)); d.title = `WOD · ${w.name}`; openEditor(d); },
   'remove-item': el => { ui.draft.items.splice(+el.dataset.i, 1); render(true); },
   'move-item': el => { const i = +el.dataset.i; if (i > 0) { const a = ui.draft.items; [a[i-1], a[i]] = [a[i], a[i-1]]; render(true); } },
   field: el => { const it = ui.draft.items[+el.dataset.i], f = el.dataset.f; it.fields = it.fields.includes(f) ? it.fields.filter(x => x !== f) : ['w','r','t','d'].filter(x => x === f || it.fields.includes(x)); render(true); },
@@ -1179,17 +1196,19 @@ const A = {
   'guide-next': () => { const tr = $('#gtrack'), i = Math.round(tr.scrollLeft / tr.clientWidth); if (i >= GUIDE.length - 1) return closeGuide(); tr.scrollTo({left:(i + 1) * tr.clientWidth, behavior:'smooth'}); },
   'wod-tab': el => { ui.wodTab = el.dataset.v; render(true); },
   'wod-detail': el => { ui.confirm = null; sheetWod(el.dataset.id); },
-  'new-wod': el => { const kind = el.dataset.kind === 'named' ? 'named' : 'mine', src = el.dataset.id ? state[kind].find(w => w.id === el.dataset.id) : null; openTpl(src ? {id:src.id, name:src.name, note:src.note || '', parts:src.parts} : null, kind); },
+  'new-wod': el => { const kind = el.dataset.kind === 'named' ? 'named' : 'mine', src = el.dataset.id ? (kind === 'named' ? wodById(el.dataset.id) : state.mine.find(w => w.id === el.dataset.id)) : null; openTpl(src ? {id:src.id, name:src.name, note:src.note || '', parts:src.parts} : null, kind); },
   'copy-wod': el => { const w = wodById(el.dataset.id); openTpl({id:null, name:`${w.name} (내 버전)`, note:w.note || '', parts:w.parts}); },
   'tpl-cancel': () => { ui.page = ui.tplBack || null; ui.frEdit = false; render(); },
   'tpl-save': () => { const d = ui.tdraft, it = d.items[0];
-    if (!it.name.trim()) { toast('와드 이름을 적어 주세요'); return; }
+    if (!it.name.trim()) { toast('WOD 이름을 적어 주세요'); return; }
     if (!wodMoves(it).some(m => m.n.trim())) { toast('운동을 하나 이상 적어 주세요'); return; }
     const t = tplFromItem(cleanWod(it, () => {})); t.note = (d.note || '').trim();
-    const named = d.kind === 'named', list = named ? state.named : state.mine; if (named) { t.named = true; t.own = true; }
-    if (d.id) { t.id = d.id; const i = list.findIndex(w => w.id === d.id); list[i] = t; } else { t.id = uid(); list.unshift(t); }
-    save(); ui.page = ui.tplBack || null; ui.frEdit = false; ui.wodTab = named ? 'named' : 'mine'; render(); toast(named ? '네임드 와드에 추가했어요' : '내 와드에 저장했어요'); },
-  'del-wod': el => { if (ui.confirm !== 'del-wod') { ui.confirm = 'del-wod'; return refreshSheet(); } state.mine = state.mine.filter(w => w.id !== el.dataset.id); state.named = state.named.filter(w => w.id !== el.dataset.id); save(); ui.confirm = null; closeSheet(); render(true); toast('와드를 삭제했어요'); },
+    const named = d.kind === 'named', list = named ? state.named : state.mine, builtIn = named && NAMED.some(w => w.id === d.id);
+    if (named) { t.named = true; if (builtIn) t.edited = true; else t.own = true; }
+    if (d.id) { t.id = d.id; const i = list.findIndex(w => w.id === d.id); if (i >= 0) list[i] = t; else list.push(t); } else { t.id = uid(); list.unshift(t); }
+    save(); ui.page = ui.tplBack || null; ui.frEdit = false; ui.wodTab = named ? 'named' : 'mine'; render(); toast(named ? '네임드 WOD에 추가했어요' : '내 WOD에 저장했어요'); },
+  'named-reset': el => { if (ui.confirm !== 'named-reset') { ui.confirm = 'named-reset'; return refreshSheet(); } state.named = state.named.filter(w => w.id !== el.dataset.id); save(); ui.confirm = null; closeSheet(); render(true); toast('처음 내용으로 되돌렸어요'); },
+  'del-wod': el => { if (ui.confirm !== 'del-wod') { ui.confirm = 'del-wod'; return refreshSheet(); } state.mine = state.mine.filter(w => w.id !== el.dataset.id); state.named = state.named.filter(w => w.id !== el.dataset.id); save(); ui.confirm = null; closeSheet(); render(true); toast('WOD를 삭제했어요'); },
   // frame chips
   'fr-toggle': () => { ui.frEdit = !ui.frEdit; render(true); },
   'frames-open': () => sheetFrames(),
@@ -1285,7 +1304,7 @@ document.addEventListener('click', e => {
     lastTap = {ds, t:now}; ui.sel = ds; if (!ds.startsWith(ui.month)) ui.month = ds.slice(0, 7); render(true); return; }
   const el = e.target.closest('[data-action]'); if (!el) return;
   const a = el.dataset.action;
-  if (ui.confirm && !['del-session','cancel-edit','del-plan','del-wod','del-ex','reset','wipe','fe-del','fr-reset','cat-del'].includes(a)) ui.confirm = null;
+  if (ui.confirm && !['del-session','cancel-edit','del-plan','del-wod','del-ex','reset','wipe','fe-del','fr-reset','cat-del','named-reset'].includes(a)) ui.confirm = null;
   A[a]?.(el);
 });
 document.addEventListener('input', e => {
@@ -1323,8 +1342,8 @@ document.addEventListener('change', e => { const ds = e.target.dataset; if (ds.m
 function showSug(input, ds) {
   const box = $(`#sug-${ds.i}-${ds.pi}-${ds.mv}`); if (!box) return;
   const q = norm(input.value); if (!q) { box.innerHTML = ''; return; }
-  const u = usage(), list = state.exercises.filter(e => norm(e.name).includes(q)).sort((a, b) => (u[b.id] || 0) - (u[a.id] || 0)).slice(0, 5);
-  const exact = list.some(e => norm(e.name) === q);
+  const u = usage(), list = state.exercises.filter(e => exMatch(e, q)).sort((a, b) => (u[b.id] || 0) - (u[a.id] || 0)).slice(0, 5);
+  const exact = list.some(e => exIs(e, q));
   box.innerHTML = list.map(e => `<button data-action="mv-pick" data-i="${ds.i}" data-pi="${ds.pi}" data-j="${ds.mv}" data-id="${e.id}"><b>${esc(e.name)}</b><small>${u[e.id] ? `${u[e.id]}번` : ''}</small></button>`).join('')
     + (exact ? '' : `<button data-action="mv-new" data-i="${ds.i}" data-pi="${ds.pi}" data-j="${ds.mv}" style="color:var(--lime)">+ "${esc(input.value.trim())}" 새 운동으로</button>`);
 }

diff --git a/sw.js b/sw.js
@@ -1,4 +1,4 @@
-const C = 'setlog-1792126190135';
+const C = 'setlog-1792127655586';
 const CORE = ['./', 'index.html', 'manifest.webmanifest', 'icon-192.png', 'icon-512.png', 'apple-touch-icon.png', 'guide/1.jpg', 'guide/2.jpg', 'guide/3.jpg', 'guide/4.jpg', 'guide/5.jpg'];
 self.addEventListener('install', e => { e.waitUntil(caches.open(C).then(c => c.addAll(CORE)).then(() => self.skipWaiting())); });
 self.addEventListener('activate', e => { e.waitUntil(caches.keys().then(ks => Promise.all(ks.filter(k => k !== C).map(k => caches.delete(k)))).then(() => self.clients.claim())); });
